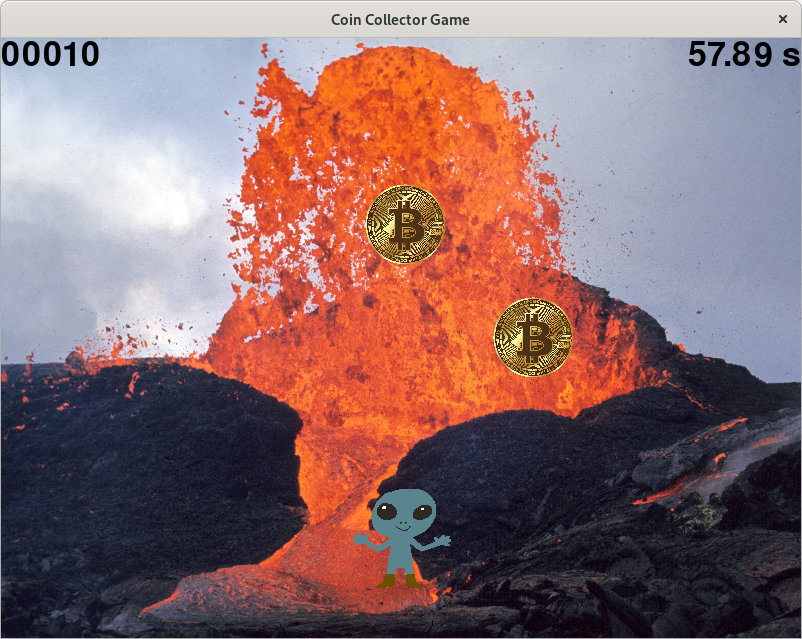
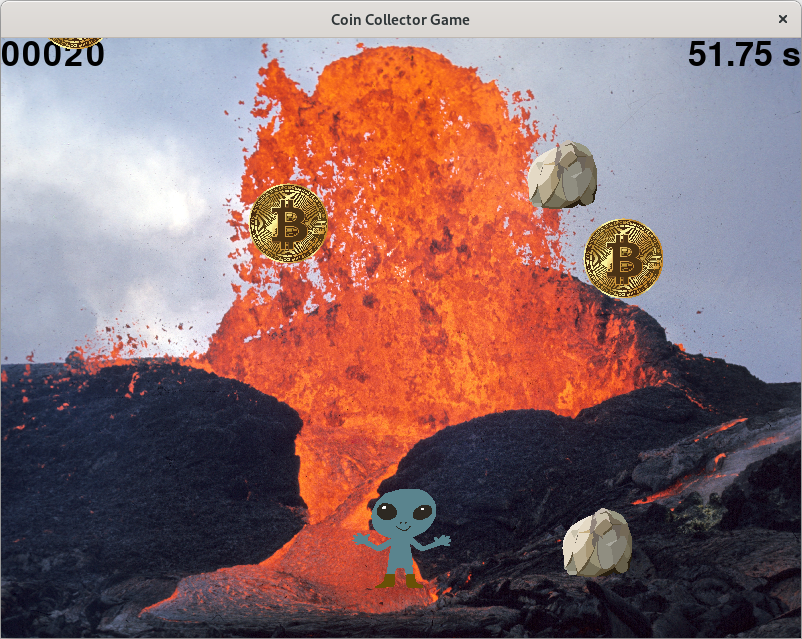
説明画像の変更

diff --git a/README.md b/README.md
@@ -29,9 +29,11 @@ python -m coin_collector
 ![ゲーム中画面](docs/play_screen.png)
 
 ゲーム中は矢印キーで移動できます。
-コインを獲得すると、時間と得点が加算されます。
-時間は右上に、得点は左上に表示されます。
+コインを獲得すると、残り時間と得点が増えます。
+岩に衝突すると、残り時間と得点が減ります。
+残り時間は右上に、得点は左上に表示されます。
 エスケープキーで終了します。
+また、残り時間が０になると終了します。
 
 # ゲーム終了画面
 
